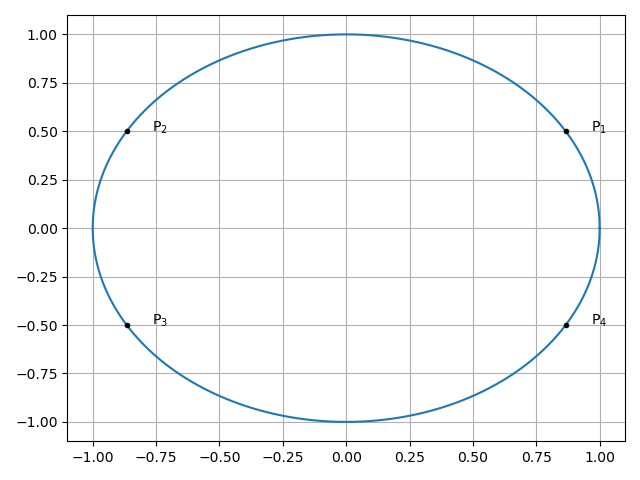
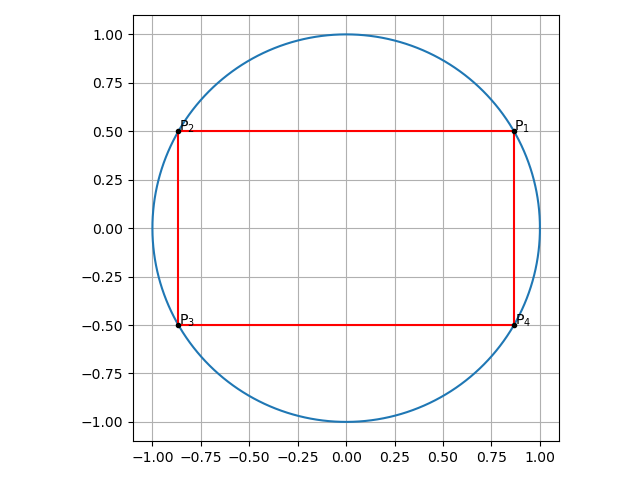
Minor edits

diff --git a/9.10.5.12/codes/circle.py b/9.10.5.12/codes/circle.py
@@ -12,20 +12,48 @@ def circ_gen(O,r):
 	x_circ = (x_circ.T + O).T
 	return x_circ
 
-#Plotting a polar point in cartesian coordinates
-def polar_to_rect(r,theta,txt):
-    plt.plot(r*np.cos(np.radians(theta)), r*np.sin(np.radians(theta)), 'k.')
-    plt.text(r*np.cos(np.radians(theta))+0.1, r*np.sin(np.radians(theta)), txt)
+#Convert a polar point in cartesian coordinates
+def polar_to_rect(r,theta):
+    return np.array([r*np.cos(np.radians(theta)),r*np.sin(np.radians(theta))])
+
+#Generate line points
+def line_gen(A,B):
+  len =10
+  dim = A.shape[0]
+  x_AB = np.zeros((dim,len))
+  lam_1 = np.linspace(0,1,len)
+  for i in range(len):
+    temp1 = A + lam_1[i]*(B-A)
+    x_AB[:,i]= temp1.T
+  return x_AB
 
 O = np.array([0.0,0.0])
 r = 1
 C = circ_gen(O,r)
+P1=polar_to_rect(r,30)
+P2=polar_to_rect(r,150)
+P3=polar_to_rect(r,210)
+P4=polar_to_rect(r,330)
+L1=line_gen(P1,P2)
+L2=line_gen(P2,P3)
+L3=line_gen(P3,P4)
+L4=line_gen(P4,P1)
 plt.plot(C[0],C[1])
-polar_to_rect(r,30,'P$_1$')
-polar_to_rect(r,150,'P$_2$')
-polar_to_rect(r,210,'P$_3$')
-polar_to_rect(r,330,'P$_4$')
+plt.plot(L1[0],L1[1],'r')
+plt.plot(L2[0],L2[1],'r')
+plt.plot(L3[0],L3[1],'r')
+plt.plot(L4[0],L4[1],'r')
+plt.plot(P1[0],P1[1],'k.')
+plt.plot(P2[0],P2[1],'k.')
+plt.plot(P3[0],P3[1],'k.')
+plt.plot(P4[0],P4[1],'k.')
+plt.text(P1[0]+1e-3,P1[1]+1e-3,'P$_1$')
+plt.text(P2[0]+1e-3,P2[1]+1e-3,'P$_2$')
+plt.text(P3[0]+1e-3,P3[1]+1e-3,'P$_3$')
+plt.text(P4[0]+4e-3,P4[1]+1e-3,'P$_4$')
 plt.grid()
 plt.tight_layout()
+ax = plt.gca()
+ax.set_aspect('equal', 'box')
 plt.savefig('../figs/circle.png')
 os.system('termux-open ../figs/circle.png')

diff --git a/12.11.2.16-general/main.tex b/12.11.2.16-general/main.tex
@@ -134,7 +134,7 @@ columns=fullflexible
     used later. To prove this, note that for vectors $\vec{a}$ and $\vec{b}$,
     \begin{align}
         \norm{\vec{a}-\frac{\vec{a}^\top\vec{b}}{\norm{\vec{b}}^2}\vec{b}}^2 &\ge 0 \\
-        \implies \norm{\vec{a}}^2 - 2\frac{\brak{\vec{a}^\top\vec{b}}^2}{\norm{\vec{b}}^2} + \frac{\brak{\vec{a}^\top\vec{b}}}{\norm{\vec{b}}^2} &\ge 0 \\
+        \implies \norm{\vec{a}}^2 - 2\frac{\brak{\vec{a}^\top\vec{b}}^2}{\norm{\vec{b}}^2} + \frac{\brak{\vec{a}^\top\vec{b}}^2}{\norm{\vec{b}}^2} &\ge 0 \\
         \implies \norm{\vec{a}}^2 - \frac{\brak{\vec{a}^\top\vec{b}}^2}{\norm{\vec{b}}^2} &\ge 0 \\
         \implies \norm{\vec{a}}^2\norm{\vec{b}}^2 &\ge \brak{\vec{a}^\top\vec{b}}^2 \\
         \implies \norm{\vec{a}}\norm{\vec{b}} &\ge \vec{a}^\top\vec{b}
